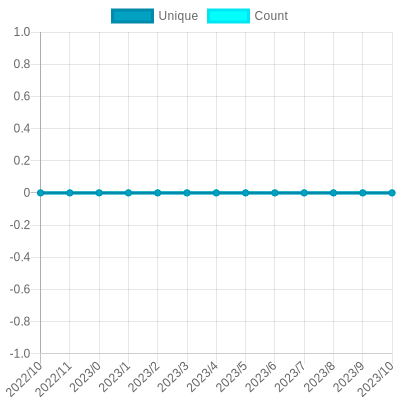
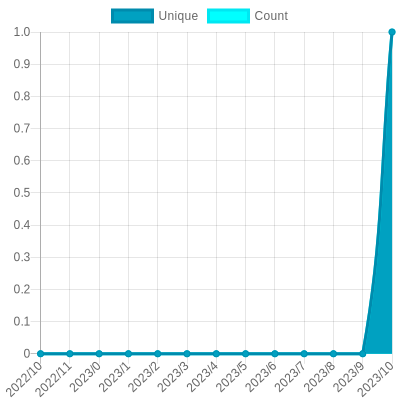
Update views

diff --git a/readme/36483482/year.md b/readme/36483482/year.md
@@ -23,10 +23,10 @@
 			<code>2022/11/1</code>
 		</td>
 		<td>
-			<code>0</code>
+			<code>1</code>
 		</td>
 		<td>
-			<code>0</code>
+			<code>1</code>
 		</td>
 	</tr>
 	<tr>
@@ -164,7 +164,7 @@
 </table>
 
 </details>
-<small><i>Last updated on 2022/11/15 12:32 AM UTC</i></small>
+<small><i>Last updated on 2022/11/15 6:08 AM UTC</i></small>
 
 ## ✂Copy and 📋 Paste
 ### SVG Badge

diff --git a/README.md b/README.md
@@ -85,7 +85,7 @@ The project created and maintained by [gayanvoice](https://github.com/gayanvoice
 	</tr>
 </table>
 
-<small><i>Last updated on 2022/11/15 12:33 AM UTC</i></small>
+<small><i>Last updated on 2022/11/15 6:08 AM UTC</i></small>
 
 ## ✂Copy and 📋 Paste
 ### Total Views Badge

diff --git a/readme/288138625/year.md b/readme/288138625/year.md
@@ -164,7 +164,7 @@
 </table>
 
 </details>
-<small><i>Last updated on 2022/11/15 12:32 AM UTC</i></small>
+<small><i>Last updated on 2022/11/15 6:07 AM UTC</i></small>
 
 ## ✂Copy and 📋 Paste
 ### SVG Badge

diff --git a/readme/358118711/year.md b/readme/358118711/year.md
@@ -164,7 +164,7 @@
 </table>
 
 </details>
-<small><i>Last updated on 2022/11/15 12:33 AM UTC</i></small>
+<small><i>Last updated on 2022/11/15 6:08 AM UTC</i></small>
 
 ## ✂Copy and 📋 Paste
 ### SVG Badge

diff --git a/readme/386482765/year.md b/readme/386482765/year.md
@@ -164,7 +164,7 @@
 </table>
 
 </details>
-<small><i>Last updated on 2022/11/15 12:33 AM UTC</i></small>
+<small><i>Last updated on 2022/11/15 6:08 AM UTC</i></small>
 
 ## ✂Copy and 📋 Paste
 ### SVG Badge
